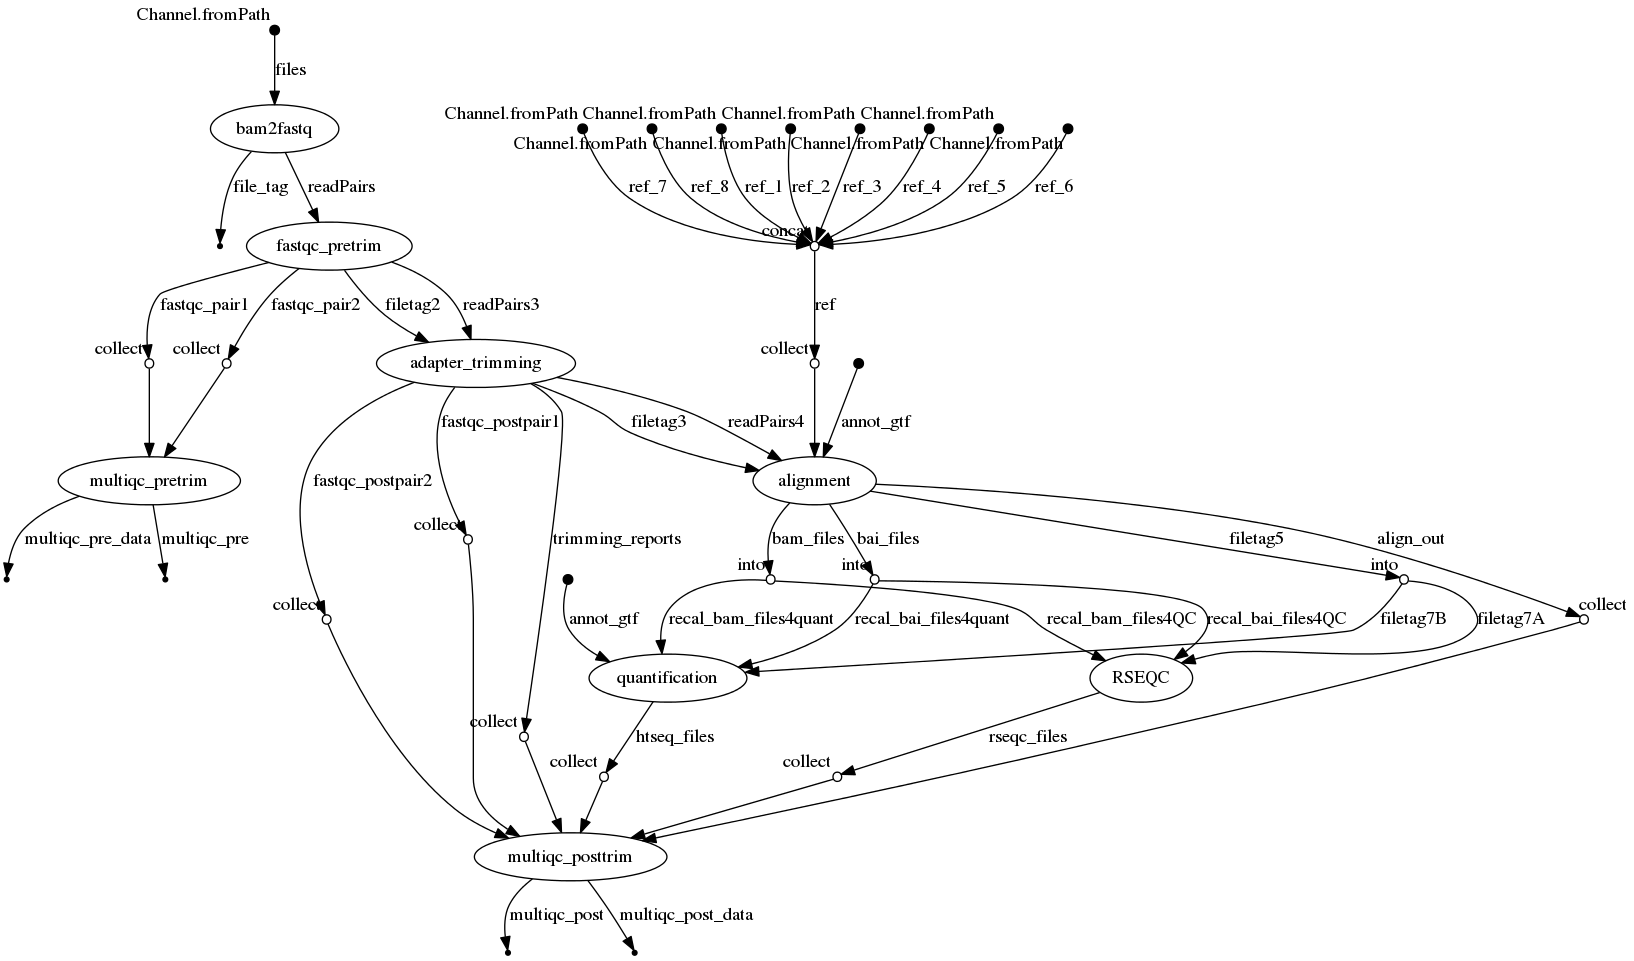
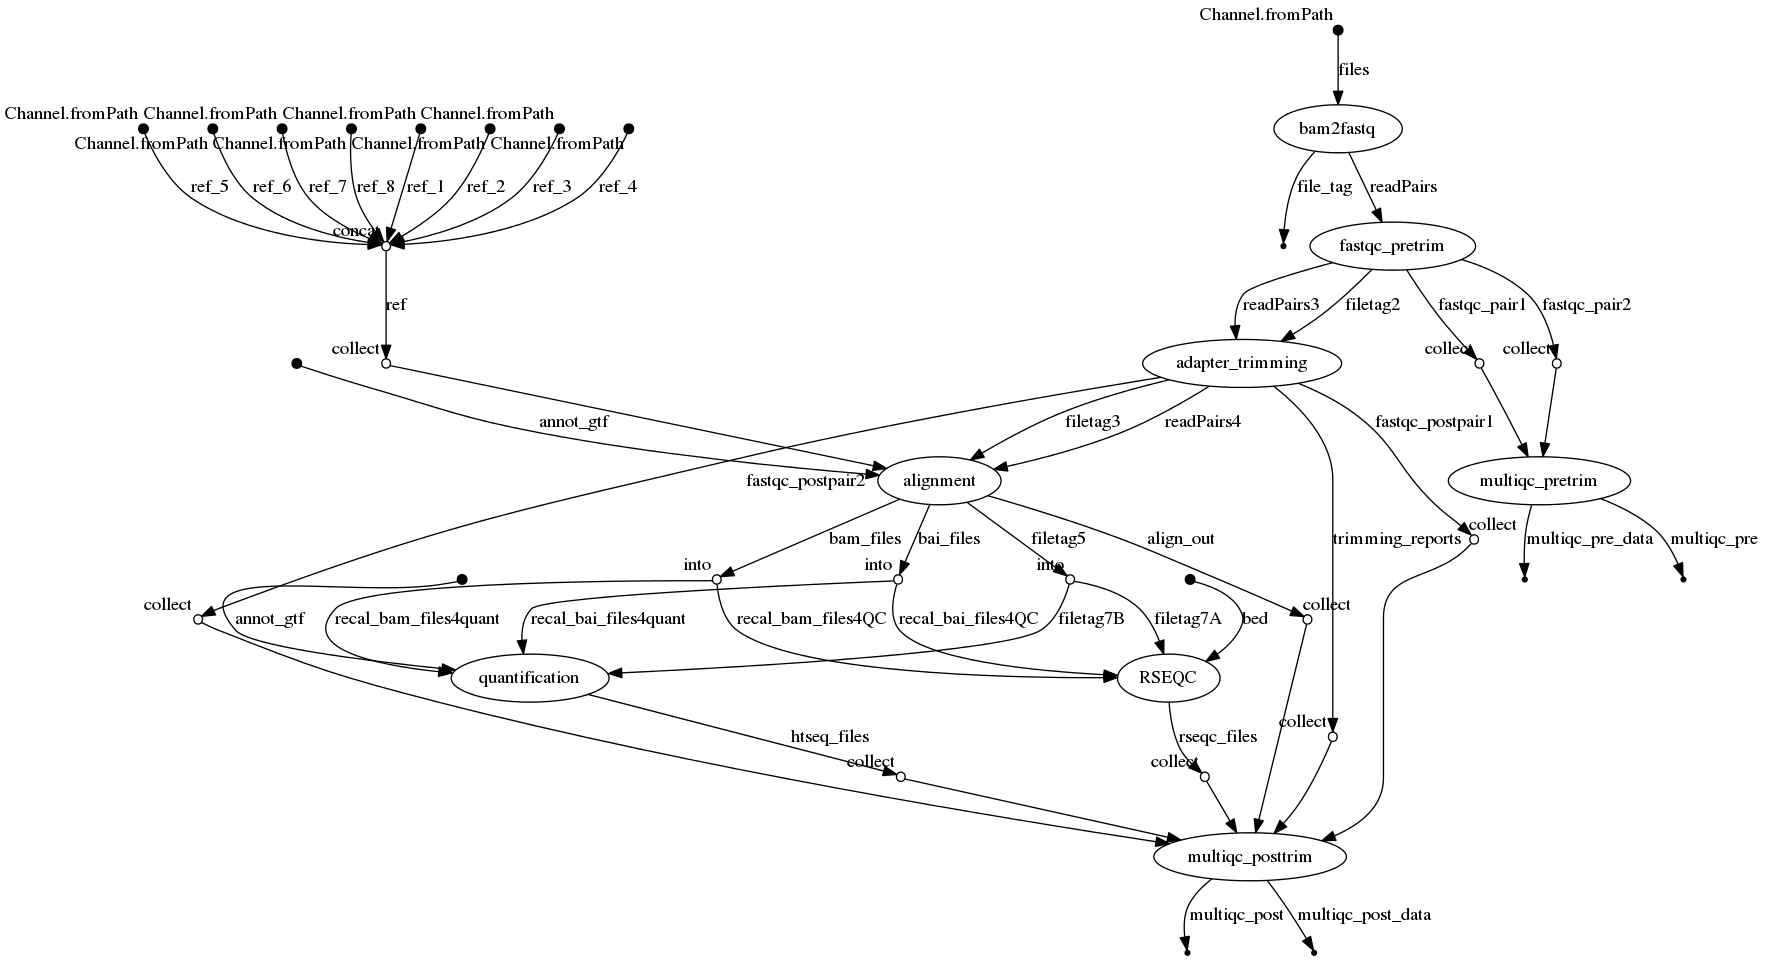
Generated DAG [skip ci]

diff --git a/dag_STAR_sjtrim.html b/dag_STAR_sjtrim.html
@@ -138,23 +138,24 @@ nodes: [
 { data: { id: 'p26', label: 'into'}, classes: 'OPERATOR' },
 { data: { id: 'p27', label: 'into'}, classes: 'OPERATOR' },
 { data: { id: 'p28', label: 'into'}, classes: 'OPERATOR' },
-{ data: { id: 'p29', label: 'RSEQC'}, classes: 'PROCESS' },
-{ data: { id: 'p30'}, classes: 'ORIGIN' },
-{ data: { id: 'p31', label: 'quantification'}, classes: 'PROCESS' },
-{ data: { id: 'p32', label: 'collect'}, classes: 'OPERATOR' },
+{ data: { id: 'p29'}, classes: 'ORIGIN' },
+{ data: { id: 'p30', label: 'RSEQC'}, classes: 'PROCESS' },
+{ data: { id: 'p31'}, classes: 'ORIGIN' },
+{ data: { id: 'p32', label: 'quantification'}, classes: 'PROCESS' },
 { data: { id: 'p33', label: 'collect'}, classes: 'OPERATOR' },
-{ data: { id: 'p34', label: 'multiqc_pretrim'}, classes: 'PROCESS' },
-{ data: { id: 'p35'}, classes: 'NODE' },
+{ data: { id: 'p34', label: 'collect'}, classes: 'OPERATOR' },
+{ data: { id: 'p35', label: 'multiqc_pretrim'}, classes: 'PROCESS' },
 { data: { id: 'p36'}, classes: 'NODE' },
-{ data: { id: 'p37', label: 'collect'}, classes: 'OPERATOR' },
+{ data: { id: 'p37'}, classes: 'NODE' },
 { data: { id: 'p38', label: 'collect'}, classes: 'OPERATOR' },
 { data: { id: 'p39', label: 'collect'}, classes: 'OPERATOR' },
 { data: { id: 'p40', label: 'collect'}, classes: 'OPERATOR' },
 { data: { id: 'p41', label: 'collect'}, classes: 'OPERATOR' },
 { data: { id: 'p42', label: 'collect'}, classes: 'OPERATOR' },
-{ data: { id: 'p43', label: 'multiqc_posttrim'}, classes: 'PROCESS' },
-{ data: { id: 'p44'}, classes: 'NODE' },
+{ data: { id: 'p43', label: 'collect'}, classes: 'OPERATOR' },
+{ data: { id: 'p44', label: 'multiqc_posttrim'}, classes: 'PROCESS' },
 { data: { id: 'p45'}, classes: 'NODE' },
+{ data: { id: 'p46'}, classes: 'NODE' },
 ],
 edges: [
 { data: { source: 'p0', target: 'p15', label: 'ref_1' } },
@@ -176,46 +177,47 @@ edges: [
 { data: { source: 'p16', target: 'p17', label: 'files' } },
 { data: { source: 'p17', target: 'p18', label: 'file_tag' } },
 { data: { source: 'p17', target: 'p19', label: 'readPairs' } },
-{ data: { source: 'p19', target: 'p32', label: 'fastqc_pair1' } },
-{ data: { source: 'p19', target: 'p33', label: 'fastqc_pair2' } },
+{ data: { source: 'p19', target: 'p33', label: 'fastqc_pair1' } },
+{ data: { source: 'p19', target: 'p34', label: 'fastqc_pair2' } },
 { data: { source: 'p19', target: 'p20', label: 'readPairs3' } },
 { data: { source: 'p19', target: 'p20', label: 'filetag2' } },
 { data: { source: 'p20', target: 'p23', label: 'filetag3' } },
 { data: { source: 'p20', target: 'p23', label: 'readPairs4' } },
-{ data: { source: 'p20', target: 'p37', label: 'fastqc_postpair1' } },
-{ data: { source: 'p20', target: 'p38', label: 'fastqc_postpair2' } },
-{ data: { source: 'p20', target: 'p42', label: 'trimming_reports' } },
+{ data: { source: 'p20', target: 'p38', label: 'fastqc_postpair1' } },
+{ data: { source: 'p20', target: 'p39', label: 'fastqc_postpair2' } },
+{ data: { source: 'p20', target: 'p43', label: 'trimming_reports' } },
 { data: { source: 'p21', target: 'p23'} },
 { data: { source: 'p22', target: 'p23', label: 'annot_gtf' } },
 { data: { source: 'p23', target: 'p25', label: 'filetag5' } },
 { data: { source: 'p23', target: 'p25', label: 'bam_files' } },
 { data: { source: 'p23', target: 'p25', label: 'bai_files' } },
-{ data: { source: 'p23', target: 'p39', label: 'align_out' } },
+{ data: { source: 'p23', target: 'p40', label: 'align_out' } },
 { data: { source: 'p24', target: 'p25', label: 'GATK_jar' } },
 { data: { source: 'p25', target: 'p28', label: 'filetag6' } },
 { data: { source: 'p25', target: 'p26', label: 'bam_files2' } },
 { data: { source: 'p25', target: 'p27', label: 'bai_files2' } },
-{ data: { source: 'p26', target: 'p29', label: 'recal_bam_files4QC' } },
-{ data: { source: 'p26', target: 'p31', label: 'recal_bam_files4quant' } },
-{ data: { source: 'p27', target: 'p29', label: 'recal_bai_files4QC' } },
-{ data: { source: 'p27', target: 'p31', label: 'recal_bai_files4quant' } },
-{ data: { source: 'p28', target: 'p29', label: 'filetag7A' } },
-{ data: { source: 'p28', target: 'p31', label: 'filetag7B' } },
-{ data: { source: 'p29', target: 'p41', label: 'rseqc_files' } },
-{ data: { source: 'p30', target: 'p31', label: 'annot_gtf' } },
-{ data: { source: 'p31', target: 'p40', label: 'htseq_files' } },
-{ data: { source: 'p32', target: 'p34'} },
-{ data: { source: 'p33', target: 'p34'} },
-{ data: { source: 'p34', target: 'p36', label: 'multiqc_pre' } },
-{ data: { source: 'p34', target: 'p35', label: 'multiqc_pre_data' } },
-{ data: { source: 'p37', target: 'p43'} },
-{ data: { source: 'p38', target: 'p43'} },
-{ data: { source: 'p39', target: 'p43'} },
-{ data: { source: 'p40', target: 'p43'} },
-{ data: { source: 'p41', target: 'p43'} },
-{ data: { source: 'p42', target: 'p43'} },
-{ data: { source: 'p43', target: 'p45', label: 'multiqc_post' } },
-{ data: { source: 'p43', target: 'p44', label: 'multiqc_post_data' } },
+{ data: { source: 'p26', target: 'p30', label: 'recal_bam_files4QC' } },
+{ data: { source: 'p26', target: 'p32', label: 'recal_bam_files4quant' } },
+{ data: { source: 'p27', target: 'p30', label: 'recal_bai_files4QC' } },
+{ data: { source: 'p27', target: 'p32', label: 'recal_bai_files4quant' } },
+{ data: { source: 'p28', target: 'p30', label: 'filetag7A' } },
+{ data: { source: 'p28', target: 'p32', label: 'filetag7B' } },
+{ data: { source: 'p29', target: 'p30', label: 'bed' } },
+{ data: { source: 'p30', target: 'p42', label: 'rseqc_files' } },
+{ data: { source: 'p31', target: 'p32', label: 'annot_gtf' } },
+{ data: { source: 'p32', target: 'p41', label: 'htseq_files' } },
+{ data: { source: 'p33', target: 'p35'} },
+{ data: { source: 'p34', target: 'p35'} },
+{ data: { source: 'p35', target: 'p37', label: 'multiqc_pre' } },
+{ data: { source: 'p35', target: 'p36', label: 'multiqc_pre_data' } },
+{ data: { source: 'p38', target: 'p44'} },
+{ data: { source: 'p39', target: 'p44'} },
+{ data: { source: 'p40', target: 'p44'} },
+{ data: { source: 'p41', target: 'p44'} },
+{ data: { source: 'p42', target: 'p44'} },
+{ data: { source: 'p43', target: 'p44'} },
+{ data: { source: 'p44', target: 'p46', label: 'multiqc_post' } },
+{ data: { source: 'p44', target: 'p45', label: 'multiqc_post_data' } },
 ],
 },
 

diff --git a/dag_STAR.html b/dag_STAR.html
@@ -136,23 +136,24 @@ nodes: [
 { data: { id: 'p24', label: 'into'}, classes: 'OPERATOR' },
 { data: { id: 'p25', label: 'into'}, classes: 'OPERATOR' },
 { data: { id: 'p26', label: 'into'}, classes: 'OPERATOR' },
-{ data: { id: 'p27', label: 'RSEQC'}, classes: 'PROCESS' },
-{ data: { id: 'p28'}, classes: 'ORIGIN' },
-{ data: { id: 'p29', label: 'quantification'}, classes: 'PROCESS' },
-{ data: { id: 'p30', label: 'collect'}, classes: 'OPERATOR' },
+{ data: { id: 'p27'}, classes: 'ORIGIN' },
+{ data: { id: 'p28', label: 'RSEQC'}, classes: 'PROCESS' },
+{ data: { id: 'p29'}, classes: 'ORIGIN' },
+{ data: { id: 'p30', label: 'quantification'}, classes: 'PROCESS' },
 { data: { id: 'p31', label: 'collect'}, classes: 'OPERATOR' },
-{ data: { id: 'p32', label: 'multiqc_pretrim'}, classes: 'PROCESS' },
-{ data: { id: 'p33'}, classes: 'NODE' },
+{ data: { id: 'p32', label: 'collect'}, classes: 'OPERATOR' },
+{ data: { id: 'p33', label: 'multiqc_pretrim'}, classes: 'PROCESS' },
 { data: { id: 'p34'}, classes: 'NODE' },
-{ data: { id: 'p35', label: 'collect'}, classes: 'OPERATOR' },
+{ data: { id: 'p35'}, classes: 'NODE' },
 { data: { id: 'p36', label: 'collect'}, classes: 'OPERATOR' },
 { data: { id: 'p37', label: 'collect'}, classes: 'OPERATOR' },
 { data: { id: 'p38', label: 'collect'}, classes: 'OPERATOR' },
 { data: { id: 'p39', label: 'collect'}, classes: 'OPERATOR' },
 { data: { id: 'p40', label: 'collect'}, classes: 'OPERATOR' },
-{ data: { id: 'p41', label: 'multiqc_posttrim'}, classes: 'PROCESS' },
-{ data: { id: 'p42'}, classes: 'NODE' },
+{ data: { id: 'p41', label: 'collect'}, classes: 'OPERATOR' },
+{ data: { id: 'p42', label: 'multiqc_posttrim'}, classes: 'PROCESS' },
 { data: { id: 'p43'}, classes: 'NODE' },
+{ data: { id: 'p44'}, classes: 'NODE' },
 ],
 edges: [
 { data: { source: 'p0', target: 'p15', label: 'ref_1' } },
@@ -174,42 +175,43 @@ edges: [
 { data: { source: 'p16', target: 'p17', label: 'files' } },
 { data: { source: 'p17', target: 'p18', label: 'file_tag' } },
 { data: { source: 'p17', target: 'p19', label: 'readPairs' } },
-{ data: { source: 'p19', target: 'p30', label: 'fastqc_pair1' } },
-{ data: { source: 'p19', target: 'p31', label: 'fastqc_pair2' } },
+{ data: { source: 'p19', target: 'p31', label: 'fastqc_pair1' } },
+{ data: { source: 'p19', target: 'p32', label: 'fastqc_pair2' } },
 { data: { source: 'p19', target: 'p20', label: 'readPairs3' } },
 { data: { source: 'p19', target: 'p20', label: 'filetag2' } },
 { data: { source: 'p20', target: 'p23', label: 'filetag3' } },
 { data: { source: 'p20', target: 'p23', label: 'readPairs4' } },
-{ data: { source: 'p20', target: 'p35', label: 'fastqc_postpair1' } },
-{ data: { source: 'p20', target: 'p36', label: 'fastqc_postpair2' } },
-{ data: { source: 'p20', target: 'p40', label: 'trimming_reports' } },
+{ data: { source: 'p20', target: 'p36', label: 'fastqc_postpair1' } },
+{ data: { source: 'p20', target: 'p37', label: 'fastqc_postpair2' } },
+{ data: { source: 'p20', target: 'p41', label: 'trimming_reports' } },
 { data: { source: 'p21', target: 'p23'} },
 { data: { source: 'p22', target: 'p23', label: 'annot_gtf' } },
 { data: { source: 'p23', target: 'p26', label: 'filetag5' } },
 { data: { source: 'p23', target: 'p24', label: 'bam_files' } },
 { data: { source: 'p23', target: 'p25', label: 'bai_files' } },
-{ data: { source: 'p23', target: 'p37', label: 'align_out' } },
-{ data: { source: 'p24', target: 'p27', label: 'recal_bam_files4QC' } },
-{ data: { source: 'p24', target: 'p29', label: 'recal_bam_files4quant' } },
-{ data: { source: 'p25', target: 'p27', label: 'recal_bai_files4QC' } },
-{ data: { source: 'p25', target: 'p29', label: 'recal_bai_files4quant' } },
-{ data: { source: 'p26', target: 'p27', label: 'filetag7A' } },
-{ data: { source: 'p26', target: 'p29', label: 'filetag7B' } },
-{ data: { source: 'p27', target: 'p39', label: 'rseqc_files' } },
-{ data: { source: 'p28', target: 'p29', label: 'annot_gtf' } },
-{ data: { source: 'p29', target: 'p38', label: 'htseq_files' } },
-{ data: { source: 'p30', target: 'p32'} },
-{ data: { source: 'p31', target: 'p32'} },
-{ data: { source: 'p32', target: 'p34', label: 'multiqc_pre' } },
-{ data: { source: 'p32', target: 'p33', label: 'multiqc_pre_data' } },
-{ data: { source: 'p35', target: 'p41'} },
-{ data: { source: 'p36', target: 'p41'} },
-{ data: { source: 'p37', target: 'p41'} },
-{ data: { source: 'p38', target: 'p41'} },
-{ data: { source: 'p39', target: 'p41'} },
-{ data: { source: 'p40', target: 'p41'} },
-{ data: { source: 'p41', target: 'p43', label: 'multiqc_post' } },
-{ data: { source: 'p41', target: 'p42', label: 'multiqc_post_data' } },
+{ data: { source: 'p23', target: 'p38', label: 'align_out' } },
+{ data: { source: 'p24', target: 'p28', label: 'recal_bam_files4QC' } },
+{ data: { source: 'p24', target: 'p30', label: 'recal_bam_files4quant' } },
+{ data: { source: 'p25', target: 'p28', label: 'recal_bai_files4QC' } },
+{ data: { source: 'p25', target: 'p30', label: 'recal_bai_files4quant' } },
+{ data: { source: 'p26', target: 'p28', label: 'filetag7A' } },
+{ data: { source: 'p26', target: 'p30', label: 'filetag7B' } },
+{ data: { source: 'p27', target: 'p28', label: 'bed' } },
+{ data: { source: 'p28', target: 'p40', label: 'rseqc_files' } },
+{ data: { source: 'p29', target: 'p30', label: 'annot_gtf' } },
+{ data: { source: 'p30', target: 'p39', label: 'htseq_files' } },
+{ data: { source: 'p31', target: 'p33'} },
+{ data: { source: 'p32', target: 'p33'} },
+{ data: { source: 'p33', target: 'p35', label: 'multiqc_pre' } },
+{ data: { source: 'p33', target: 'p34', label: 'multiqc_pre_data' } },
+{ data: { source: 'p36', target: 'p42'} },
+{ data: { source: 'p37', target: 'p42'} },
+{ data: { source: 'p38', target: 'p42'} },
+{ data: { source: 'p39', target: 'p42'} },
+{ data: { source: 'p40', target: 'p42'} },
+{ data: { source: 'p41', target: 'p42'} },
+{ data: { source: 'p42', target: 'p44', label: 'multiqc_post' } },
+{ data: { source: 'p42', target: 'p43', label: 'multiqc_post_data' } },
 ],
 },
 

diff --git a/dag_hisat2.html b/dag_hisat2.html
@@ -129,23 +129,24 @@ nodes: [
 { data: { id: 'p17', label: 'into'}, classes: 'OPERATOR' },
 { data: { id: 'p18', label: 'into'}, classes: 'OPERATOR' },
 { data: { id: 'p19', label: 'into'}, classes: 'OPERATOR' },
-{ data: { id: 'p20', label: 'RSEQC'}, classes: 'PROCESS' },
-{ data: { id: 'p21'}, classes: 'ORIGIN' },
-{ data: { id: 'p22', label: 'quantification'}, classes: 'PROCESS' },
-{ data: { id: 'p23', label: 'collect'}, classes: 'OPERATOR' },
+{ data: { id: 'p20'}, classes: 'ORIGIN' },
+{ data: { id: 'p21', label: 'RSEQC'}, classes: 'PROCESS' },
+{ data: { id: 'p22'}, classes: 'ORIGIN' },
+{ data: { id: 'p23', label: 'quantification'}, classes: 'PROCESS' },
 { data: { id: 'p24', label: 'collect'}, classes: 'OPERATOR' },
-{ data: { id: 'p25', label: 'multiqc_pretrim'}, classes: 'PROCESS' },
-{ data: { id: 'p26'}, classes: 'NODE' },
+{ data: { id: 'p25', label: 'collect'}, classes: 'OPERATOR' },
+{ data: { id: 'p26', label: 'multiqc_pretrim'}, classes: 'PROCESS' },
 { data: { id: 'p27'}, classes: 'NODE' },
-{ data: { id: 'p28', label: 'collect'}, classes: 'OPERATOR' },
+{ data: { id: 'p28'}, classes: 'NODE' },
 { data: { id: 'p29', label: 'collect'}, classes: 'OPERATOR' },
 { data: { id: 'p30', label: 'collect'}, classes: 'OPERATOR' },
 { data: { id: 'p31', label: 'collect'}, classes: 'OPERATOR' },
 { data: { id: 'p32', label: 'collect'}, classes: 'OPERATOR' },
 { data: { id: 'p33', label: 'collect'}, classes: 'OPERATOR' },
-{ data: { id: 'p34', label: 'multiqc_posttrim'}, classes: 'PROCESS' },
-{ data: { id: 'p35'}, classes: 'NODE' },
+{ data: { id: 'p34', label: 'collect'}, classes: 'OPERATOR' },
+{ data: { id: 'p35', label: 'multiqc_posttrim'}, classes: 'PROCESS' },
 { data: { id: 'p36'}, classes: 'NODE' },
+{ data: { id: 'p37'}, classes: 'NODE' },
 ],
 edges: [
 { data: { source: 'p0', target: 'p8', label: 'ref_1' } },
@@ -160,42 +161,43 @@ edges: [
 { data: { source: 'p9', target: 'p10', label: 'files' } },
 { data: { source: 'p10', target: 'p11', label: 'file_tag' } },
 { data: { source: 'p10', target: 'p12', label: 'readPairs' } },
-{ data: { source: 'p12', target: 'p23', label: 'fastqc_pair1' } },
-{ data: { source: 'p12', target: 'p24', label: 'fastqc_pair2' } },
+{ data: { source: 'p12', target: 'p24', label: 'fastqc_pair1' } },
+{ data: { source: 'p12', target: 'p25', label: 'fastqc_pair2' } },
 { data: { source: 'p12', target: 'p13', label: 'readPairs3' } },
 { data: { source: 'p12', target: 'p13', label: 'filetag2' } },
 { data: { source: 'p13', target: 'p16', label: 'filetag3' } },
 { data: { source: 'p13', target: 'p16', label: 'readPairs4' } },
-{ data: { source: 'p13', target: 'p28', label: 'fastqc_postpair1' } },
-{ data: { source: 'p13', target: 'p29', label: 'fastqc_postpair2' } },
-{ data: { source: 'p13', target: 'p33', label: 'trimming_reports' } },
+{ data: { source: 'p13', target: 'p29', label: 'fastqc_postpair1' } },
+{ data: { source: 'p13', target: 'p30', label: 'fastqc_postpair2' } },
+{ data: { source: 'p13', target: 'p34', label: 'trimming_reports' } },
 { data: { source: 'p14', target: 'p16'} },
 { data: { source: 'p15', target: 'p16', label: 'annot_gtf' } },
 { data: { source: 'p16', target: 'p19', label: 'filetag5' } },
 { data: { source: 'p16', target: 'p17', label: 'bam_files' } },
 { data: { source: 'p16', target: 'p18', label: 'bai_files' } },
-{ data: { source: 'p16', target: 'p30', label: 'align_out' } },
-{ data: { source: 'p17', target: 'p20', label: 'recal_bam_files4QC' } },
-{ data: { source: 'p17', target: 'p22', label: 'recal_bam_files4quant' } },
-{ data: { source: 'p18', target: 'p20', label: 'recal_bai_files4QC' } },
-{ data: { source: 'p18', target: 'p22', label: 'recal_bai_files4quant' } },
-{ data: { source: 'p19', target: 'p20', label: 'filetag7A' } },
-{ data: { source: 'p19', target: 'p22', label: 'filetag7B' } },
-{ data: { source: 'p20', target: 'p32', label: 'rseqc_files' } },
-{ data: { source: 'p21', target: 'p22', label: 'annot_gtf' } },
-{ data: { source: 'p22', target: 'p31', label: 'htseq_files' } },
-{ data: { source: 'p23', target: 'p25'} },
-{ data: { source: 'p24', target: 'p25'} },
-{ data: { source: 'p25', target: 'p27', label: 'multiqc_pre' } },
-{ data: { source: 'p25', target: 'p26', label: 'multiqc_pre_data' } },
-{ data: { source: 'p28', target: 'p34'} },
-{ data: { source: 'p29', target: 'p34'} },
-{ data: { source: 'p30', target: 'p34'} },
-{ data: { source: 'p31', target: 'p34'} },
-{ data: { source: 'p32', target: 'p34'} },
-{ data: { source: 'p33', target: 'p34'} },
-{ data: { source: 'p34', target: 'p36', label: 'multiqc_post' } },
-{ data: { source: 'p34', target: 'p35', label: 'multiqc_post_data' } },
+{ data: { source: 'p16', target: 'p31', label: 'align_out' } },
+{ data: { source: 'p17', target: 'p21', label: 'recal_bam_files4QC' } },
+{ data: { source: 'p17', target: 'p23', label: 'recal_bam_files4quant' } },
+{ data: { source: 'p18', target: 'p21', label: 'recal_bai_files4QC' } },
+{ data: { source: 'p18', target: 'p23', label: 'recal_bai_files4quant' } },
+{ data: { source: 'p19', target: 'p21', label: 'filetag7A' } },
+{ data: { source: 'p19', target: 'p23', label: 'filetag7B' } },
+{ data: { source: 'p20', target: 'p21', label: 'bed' } },
+{ data: { source: 'p21', target: 'p33', label: 'rseqc_files' } },
+{ data: { source: 'p22', target: 'p23', label: 'annot_gtf' } },
+{ data: { source: 'p23', target: 'p32', label: 'htseq_files' } },
+{ data: { source: 'p24', target: 'p26'} },
+{ data: { source: 'p25', target: 'p26'} },
+{ data: { source: 'p26', target: 'p28', label: 'multiqc_pre' } },
+{ data: { source: 'p26', target: 'p27', label: 'multiqc_pre_data' } },
+{ data: { source: 'p29', target: 'p35'} },
+{ data: { source: 'p30', target: 'p35'} },
+{ data: { source: 'p31', target: 'p35'} },
+{ data: { source: 'p32', target: 'p35'} },
+{ data: { source: 'p33', target: 'p35'} },
+{ data: { source: 'p34', target: 'p35'} },
+{ data: { source: 'p35', target: 'p37', label: 'multiqc_post' } },
+{ data: { source: 'p35', target: 'p36', label: 'multiqc_post_data' } },
 ],
 },
 
